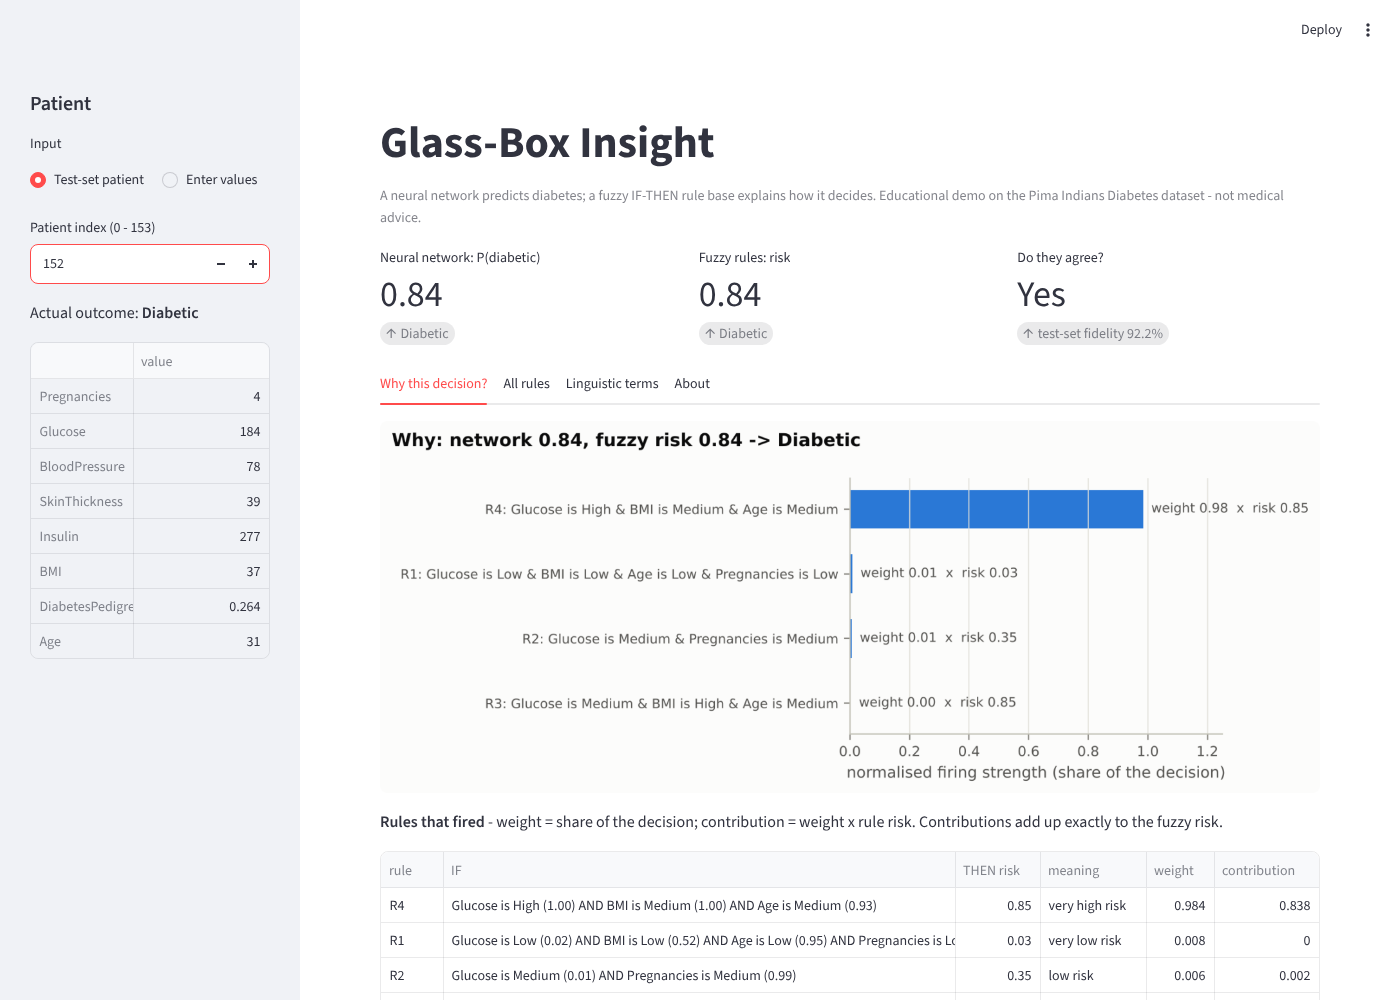
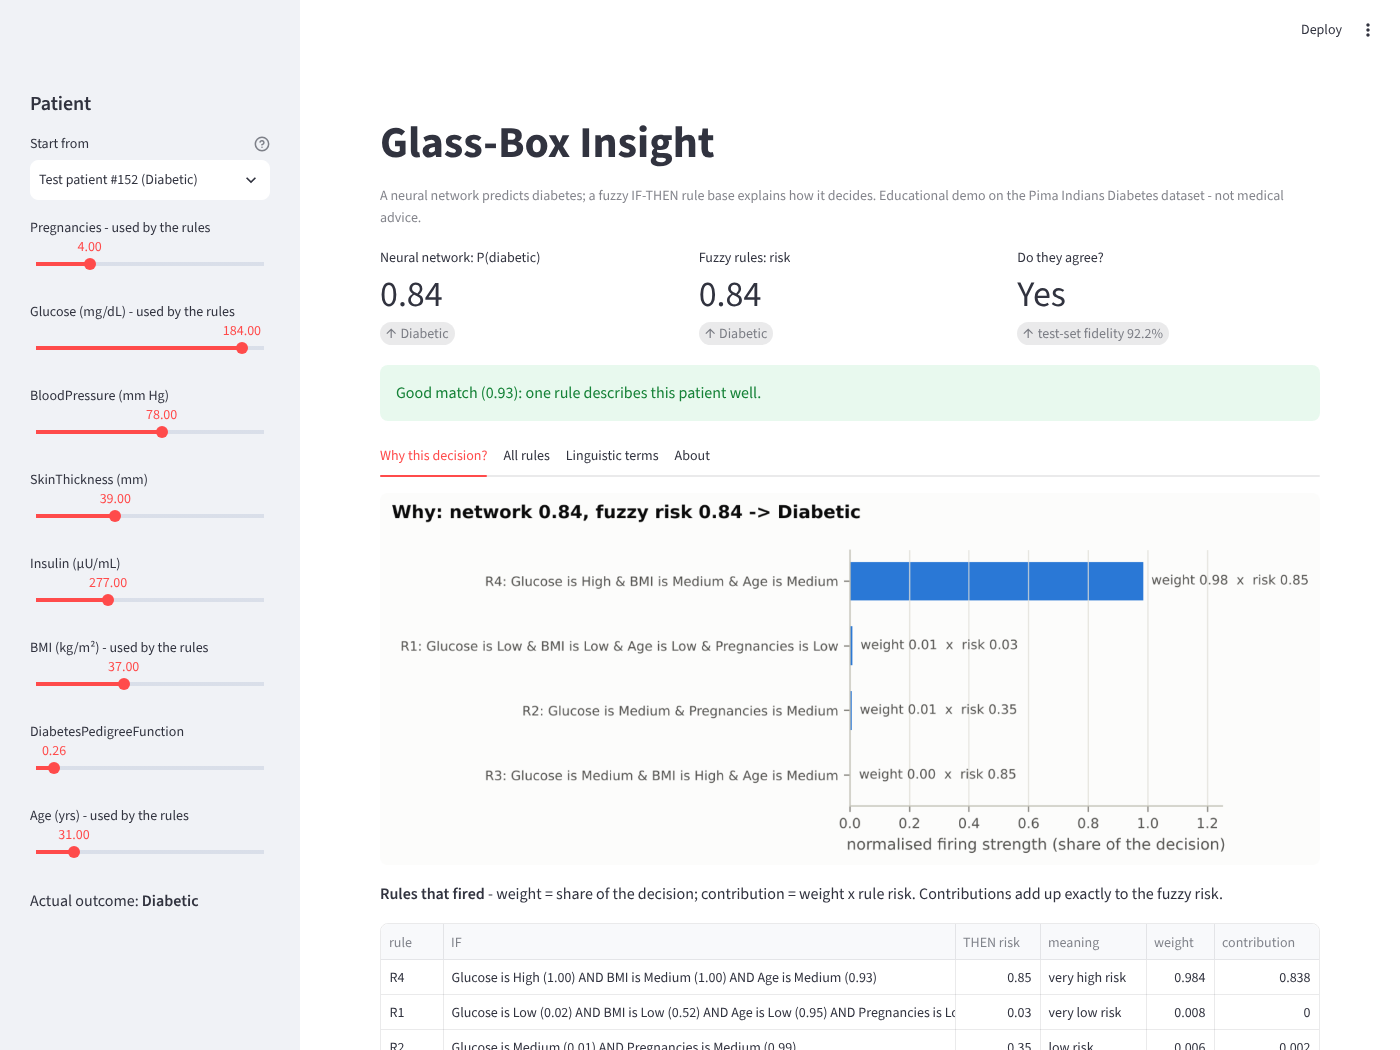
README: like-for-like results tables and step-by-step local setup
Adds Windows/macOS/Linux setup with a troubleshooting table (verified
on Python 3.10 and 3.13) and a new demo screenshot.

Claude-Session: https://claude.ai/code/session_01BU4NzSR9SWdrVNbnxy2nbM

diff --git a/README.md b/README.md
@@ -19,28 +19,45 @@ _Course project for Fuzzy Logic and Neural Networks (B.Tech, final year)._
 
 Test set of 154 patients that were never used for training, tuning or pruning.
 
-| | Result |
-|---|---|
-| Black-box network (MLP 8→8→1) | 70.1 % accuracy, ROC-AUC 0.80 (logistic regression: 70.8 %, 0.82) |
-| Fuzzy explainer, before pruning | 8 rules, 32 conditions, **94.8 % fidelity** to the network |
-| Fuzzy explainer, after pruning | 4 rules, 12 conditions, **92.2 % fidelity** |
-| Same setting averaged over 5 seeds | pruning: 26.4 → 12.8 conditions, fidelity 95.1 % → 94.8 % |
-| Decision-tree explainer, 8 leaves | 25 conditions, 90.9 % fidelity |
-| Grid ANFIS (all combinations) | 81 rules, 324 conditions, 94.2 % fidelity |
+**The black box:** an MLP (8→8→1) with 70.1 % accuracy and ROC-AUC 0.80
+(logistic regression: 70.8 %, 0.82).
+
+**The fuzzy explainer**, fidelity = share of test patients where it makes the
+same decision as the network:
+
+| | Rules | Conditions | Fidelity |
+|---|---|---|---|
+| Main model (seed 42), before pruning | 8 | 32 | 94.8 % |
+| Main model (seed 42), after pruning | 4 | 12 | 92.2 % |
+| 5 other seeds, before pruning (mean ± sd) | 6.6 ± 0.9 | 26.4 ± 3.6 | 95.1 % ± 0.7 |
+| 5 other seeds, after pruning (mean ± sd) | 5.0 ± 1.6 | 12.8 ± 5.0 | 94.8 % ± 1.1 |
+
+Compare rows within the same seeds. The main model is the one shown in the rules,
+case studies and demo; it happened to prune harder than average.
+
+**Baselines at equal size:**
+
+| Explainer | Rules | Conditions | Fidelity |
+|---|---|---|---|
+| Decision tree, 4 leaves | 4 | 8 | 87.7 % |
+| Decision tree, 5 leaves | 5 | 12 | 90.3 % |
+| Grid ANFIS (every term combination) | 81 | 324 | 94.2 % |
 
 Findings:
 
-- **Pruning roughly halves the rule base** with almost no loss of fidelity (seed average).
-- **At every rule-base size the fuzzy explainer is more faithful than a decision
-  tree** of the same size.
+- **Pruning roughly halves the rule base** (26 → 13 conditions on average) for
+  about 0.3 points of fidelity.
+- **At equal size the fuzzy explainer is more faithful than a decision tree.**
 - **Interpretability constraints are free:** removing them does not raise fidelity
   (94.2 % vs 94.8 %), but terms then drift by about half the input range and
   swap order in 2 of 5 runs, so "Low" stops meaning low.
 - **Imitating the network matters:** the same system trained on true labels agrees
   with the network only 88.2 % of the time.
+- **Constant THEN-parts are enough:** linear (first-order) THEN-parts were not more
+  faithful (94.3 %) and need 18 numbers after THEN instead of 5.
 - **Oracle sampling** (synthetic patients labelled by the network) adds 1.3
   points of fidelity.
-- The explainer is honest about its limits: 15 % of test patients have no
+- **The explainer is honest about its limits:** 15 % of test patients have no
   well-matching rule, and their explanations are flagged as weak.
 
 Full tables: [results/summary.md](results/summary.md) · rules:
@@ -76,19 +93,94 @@ flowchart LR
 
 The equations are in [docs/METHODOLOGY.md](docs/METHODOLOGY.md).
 
-## Quick start
+## Setting up on your computer
+
+You need **Python 3.10 or newer** (tested on 3.10 and 3.13) and **Git**. No GPU;
+any laptop works. Everything below is typed in a terminal: *PowerShell* on
+Windows, *Terminal* on macOS or Linux.
+
+### 1. Check Python and Git
 
 ```bash
-python -m venv .venv
-source .venv/bin/activate          # Windows: .venv\Scripts\activate
-pip install -r requirements.txt
-
-python -m pytest                   # 20 unit tests, a few seconds
-python scripts/run_experiments.py  # all results -> results/ (~5 min; --quick for 1 seed)
-streamlit run app.py               # interactive demo in the browser
+python --version      # Windows: if this fails, try  py --version
+git --version
 ```
 
-Python 3.9+ is required. No GPU is needed; everything runs on a laptop CPU.
+If Python is missing, install it from [python.org](https://www.python.org/downloads/).
+On Windows, tick **"Add python.exe to PATH"** in the installer. If Git is missing,
+install it from [git-scm.com](https://git-scm.com/downloads).
+
+### 2. Download the project
+
+```bash
+git clone https://github.com/rakshit1862005/Fuzzy_Project.git
+cd Fuzzy_Project
+git checkout claude/laughing-lamport-1fbce2    # skip once this is merged into main
+```
+
+### 3. Create a virtual environment (a private folder of packages for this project)
+
+Windows (PowerShell):
+
+```powershell
+py -m venv .venv
+.venv\Scripts\Activate.ps1
+```
+
+macOS / Linux:
+
+```bash
+python3 -m venv .venv
+source .venv/bin/activate
+```
+
+Your prompt now starts with `(.venv)`. Run the activate line again every time
+you open a new terminal.
+
+### 4. Install the packages
+
+```bash
+python -m pip install --upgrade pip
+python -m pip install -r requirements.txt
+```
+
+### 5. Check that everything works
+
+```bash
+python -m pytest
+```
+
+Expected: `22 passed` in a few seconds.
+
+### 6. Start the demo
+
+```bash
+python -m streamlit run app.py
+```
+
+Your browser opens at <http://localhost:8501>. The first load takes 15-30
+seconds while the models train. Stop the app with `Ctrl+C` in the terminal.
+
+### 7. (Optional) Regenerate all results
+
+```bash
+python scripts/run_experiments.py           # about 5-10 minutes
+python scripts/run_experiments.py --quick   # 1 seed instead of 5, about 2 minutes
+```
+
+This rewrites everything in `results/`. The numbers should match the committed
+ones; library versions can change the last digit.
+
+### Troubleshooting
+
+| Problem | Fix |
+|---|---|
+| `python` is not recognised (Windows) | Use `py` instead of `python`, or reinstall Python with "Add to PATH" ticked. |
+| `Activate.ps1 cannot be loaded because running scripts is disabled` | Run `Set-ExecutionPolicy -Scope CurrentUser RemoteSigned` once, then activate again. Or use Command Prompt: `.venv\Scripts\activate.bat`. |
+| `streamlit` is not recognised | Use `python -m streamlit run app.py`, and check that `(.venv)` is active. |
+| `ModuleNotFoundError: No module named 'glassbox'` | Run commands from the `Fuzzy_Project` folder (the one containing `app.py`). |
+| `Port 8501 is already in use` | `python -m streamlit run app.py --server.port 8502` |
+| VS Code shows import errors | `Ctrl+Shift+P` → *Python: Select Interpreter* → pick the one inside `.venv`. |
 
 ![demo](docs/app_screenshot.png)
 
@@ -119,7 +211,7 @@ results/                generated tables, rules, case studies, figures
 docs/
   PROBLEM_STATEMENT.md  revised problem statement, related work, references
   METHODOLOGY.md        every step with equations (report-ready)
-  VIVA_GUIDE.md         pitch, team split, demo script, 38 Q&A
+  VIVA_GUIDE.md         pitch, team split, demo script, 42 Q&A
 data/diabetes.csv       Pima Indians Diabetes dataset
 ```
 
